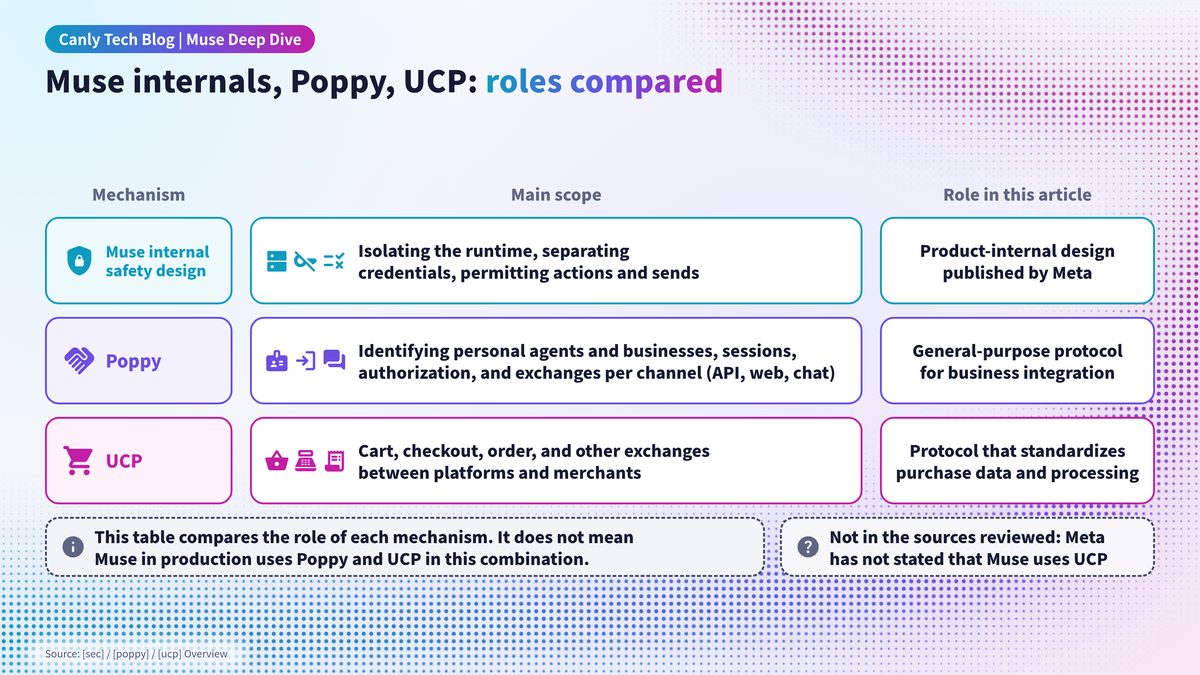
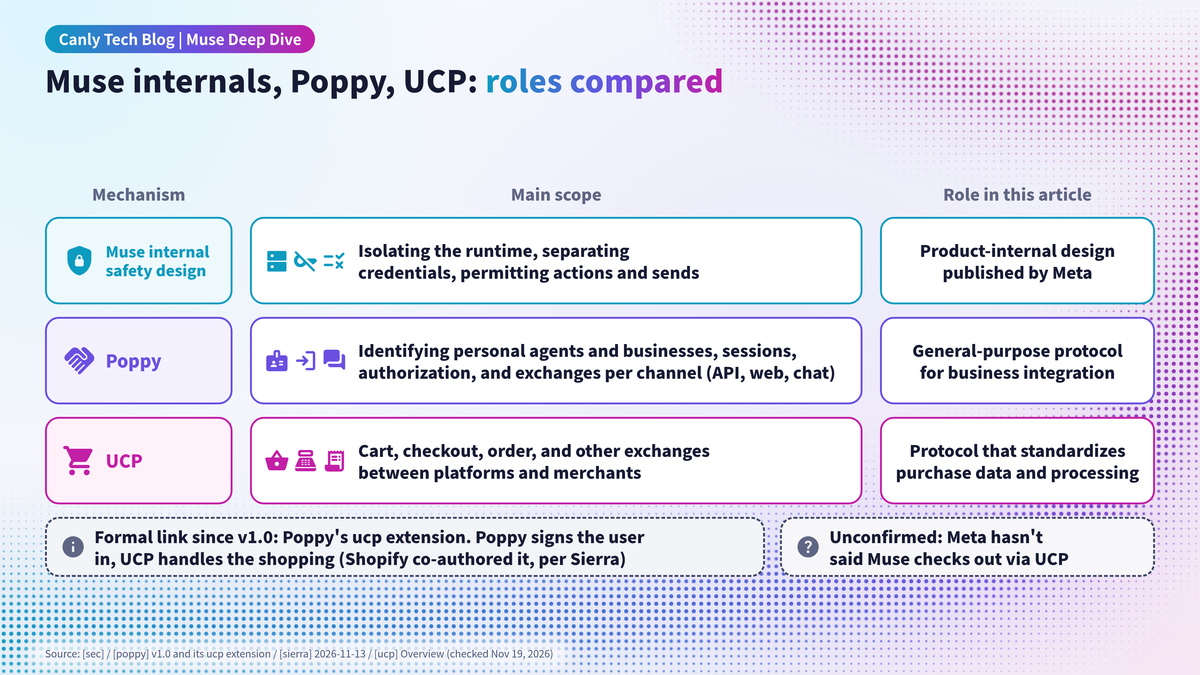
muse-en techblog: fig24 + 5.5/7 updated for Poppy 1.0 ucp extension (formal Poppy-UCP link; Muse use unconfirmed), rechecked 11/19 13:43 JST

Changed region(s): [[0.0617, 0.7778, 0.555, 0.84], [0.1233, 0.9333, 0.4625, 0.9956], [0.6783, 0.7778, 0.925, 0.84]]

diff --git a/2026-11-19/muse-en/techblog/figures/src/s24.html b/2026-11-19/muse-en/techblog/figures/src/s24.html
@@ -2,10 +2,10 @@
 <div class="pill">Canly Tech Blog | Muse Deep Dive</div>
 <p class="msg">Muse internals, Poppy, UCP: <em>roles compared</em></p>
 <div class="stage">
-<div class="d ck3" style="font-weight:900;justify-self:center;align-self:end">Mechanism</div><div class="d ck3" style="font-weight:900;justify-self:center;align-self:end">Main scope</div><div class="d ck3" style="font-weight:900;justify-self:center;align-self:end">Role in this article</div><div class="bx c fc row" style="justify-content:flex-start;padding:10px 24px"><span class="ic cc">shield_lock</span><div class="t sm cc" style="text-align:left;font-size:24px">Muse internal<br>safety design</div></div><div class="bx c row" style="justify-content:flex-start;gap:18px;padding:10px 20px"><div style="display:flex;gap:6px;flex:none"><span class="ic sm cc">dns</span><span class="ic sm cc">key_off</span><span class="ic sm cc">rule</span></div><div class="d ck" style="font-weight:800;text-align:left;flex:1">Isolating the runtime, separating credentials, permitting actions and sends</div></div><div class="bx c" style="padding:10px 20px"><div class="d ck" style="font-weight:800">Product-internal design published by Meta</div></div><div class="bx v fv row" style="justify-content:flex-start;padding:10px 24px"><span class="ic cv">handshake</span><div class="t sm cv" style="text-align:left">Poppy</div></div><div class="bx v row" style="justify-content:flex-start;gap:18px;padding:10px 20px"><div style="display:flex;gap:6px;flex:none"><span class="ic sm cv">badge</span><span class="ic sm cv">login</span><span class="ic sm cv">forum</span></div><div class="d ck" style="font-weight:800;text-align:left;flex:1">Identifying personal agents and businesses, sessions, authorization, and exchanges per channel (API, web, chat)</div></div><div class="bx v" style="padding:10px 20px"><div class="d ck" style="font-weight:800">General-purpose protocol for business integration</div></div><div class="bx m fm row" style="justify-content:flex-start;padding:10px 24px"><span class="ic cm">shopping_cart</span><div class="t sm cm" style="text-align:left">UCP</div></div><div class="bx m row" style="justify-content:flex-start;gap:18px;padding:10px 20px"><div style="display:flex;gap:6px;flex:none"><span class="ic sm cm">shopping_basket</span><span class="ic sm cm">point_of_sale</span><span class="ic sm cm">receipt_long</span></div><div class="d ck" style="font-weight:800;text-align:left;flex:1">Cart, checkout, order, and other exchanges between platforms and merchants</div></div><div class="bx m" style="padding:10px 20px"><div class="d ck" style="font-weight:800">Protocol that standardizes purchase data and processing</div></div><div style="grid-column:1/4;display:grid;grid-template-columns:1fr 600px;gap:24px"><div class="bx k fk dash row" style="padding:10px 22px"><span class="ic sm ck3">info</span><div class="d ck" style="font-weight:900;text-align:left">This table compares the role of each mechanism. It does not mean Muse in production uses Poppy and UCP in this combination.</div></div><div class="bx k dash row" style="padding:10px 22px;background:#F7F7FA"><span class="ic sm ck3">help</span><div class="d ck" style="font-weight:900;text-align:left">Not in the sources reviewed: Meta has not stated that Muse uses UCP</div></div></div>
+<div class="d ck3" style="font-weight:900;justify-self:center;align-self:end">Mechanism</div><div class="d ck3" style="font-weight:900;justify-self:center;align-self:end">Main scope</div><div class="d ck3" style="font-weight:900;justify-self:center;align-self:end">Role in this article</div><div class="bx c fc row" style="justify-content:flex-start;padding:10px 24px"><span class="ic cc">shield_lock</span><div class="t sm cc" style="text-align:left;font-size:24px">Muse internal<br>safety design</div></div><div class="bx c row" style="justify-content:flex-start;gap:18px;padding:10px 20px"><div style="display:flex;gap:6px;flex:none"><span class="ic sm cc">dns</span><span class="ic sm cc">key_off</span><span class="ic sm cc">rule</span></div><div class="d ck" style="font-weight:800;text-align:left;flex:1">Isolating the runtime, separating credentials, permitting actions and sends</div></div><div class="bx c" style="padding:10px 20px"><div class="d ck" style="font-weight:800">Product-internal design published by Meta</div></div><div class="bx v fv row" style="justify-content:flex-start;padding:10px 24px"><span class="ic cv">handshake</span><div class="t sm cv" style="text-align:left">Poppy</div></div><div class="bx v row" style="justify-content:flex-start;gap:18px;padding:10px 20px"><div style="display:flex;gap:6px;flex:none"><span class="ic sm cv">badge</span><span class="ic sm cv">login</span><span class="ic sm cv">forum</span></div><div class="d ck" style="font-weight:800;text-align:left;flex:1">Identifying personal agents and businesses, sessions, authorization, and exchanges per channel (API, web, chat)</div></div><div class="bx v" style="padding:10px 20px"><div class="d ck" style="font-weight:800">General-purpose protocol for business integration</div></div><div class="bx m fm row" style="justify-content:flex-start;padding:10px 24px"><span class="ic cm">shopping_cart</span><div class="t sm cm" style="text-align:left">UCP</div></div><div class="bx m row" style="justify-content:flex-start;gap:18px;padding:10px 20px"><div style="display:flex;gap:6px;flex:none"><span class="ic sm cm">shopping_basket</span><span class="ic sm cm">point_of_sale</span><span class="ic sm cm">receipt_long</span></div><div class="d ck" style="font-weight:800;text-align:left;flex:1">Cart, checkout, order, and other exchanges between platforms and merchants</div></div><div class="bx m" style="padding:10px 20px"><div class="d ck" style="font-weight:800">Protocol that standardizes purchase data and processing</div></div><div style="grid-column:1/4;display:grid;grid-template-columns:1fr 600px;gap:24px"><div class="bx k fk dash row" style="padding:10px 22px"><span class="ic sm ck3">info</span><div class="d ck" style="font-weight:900;text-align:left">Formal link since v1.0: Poppy's ucp extension. Poppy signs the user in, UCP handles the shopping (Shopify co-authored it, per Sierra)</div></div><div class="bx k dash row" style="padding:10px 22px;background:#F7F7FA"><span class="ic sm ck3">help</span><div class="d ck" style="font-weight:900;text-align:left">Unconfirmed: Meta hasn't said Muse checks out via UCP</div></div></div>
 </div>
 <div class="arwdefs" hidden></div>
-<p class="src">Source: [sec] / [poppy] / [ucp] Overview</p>
+<p class="src">Source: [sec] / [poppy] v1.0 and its ucp extension / [sierra] 2026-11-13 / [ucp] Overview (checked Nov 19, 2026)</p>
 <script>(function(){
 const sec=document.currentScript.closest('section');
 const COL={c:'#0E9BC0',v:'#6A4FE0',m:'#C21FA6',w:'#C77A00',k:'#5F6683',g:'#9AA1BD'};

diff --git a/2026-11-19/muse-en/techblog/factcheck_en.md b/2026-11-19/muse-en/techblog/factcheck_en.md
@@ -8,7 +8,7 @@
 
 1. **[Applied 11/19, see end] Poppy is "draft 0.4" (section 4.1, section 7, fig14 "Draft 0.4", fig26 "Poppy is at draft 0.4").** Poppy **v1.0 was released on 2026-11-13** (Sierra, https://sierra.ai/blog/releasing-poppy). https://personalagentprotocol.org/docs/spec now serves v1.0 ("It's 0.4 with the fixes implementers needed"). The 0.4 text is still at https://personalagentprotocol.org/docs/0.4/spec . Suggest: add an update note and point "draft 0.4" links to /docs/0.4/spec.
 2. **[Applied 11/19, see end] "The only primary source for Muse and Poppy working together is a demo at a Sierra event; not available to the general public" (section 5.5; fig01 "Availability in Muse unconfirmed (only demoed at a Sierra event)").** Outdated since 11/13: Sierra says "Poppy is now on for everyone who uses Muse, Meta's AI agent, which automatically looks for Poppy first on every site it visits", and Shopify enabled Poppy for every merchant. (Source is Sierra, not Meta.)
-3. **[Partly applied 11/19: update note in 5.5; fig24 unchanged] "No formal link between Poppy and UCP is defined" (section 5.5, section 7, fig24/fig26).** Partly outdated: v1.0 is "largely built with existing standards like MCP, OpenAPI, and UCP", adds extensions incl. "the commerce extension co-authored by Shopify", every Shopify store "automatically publishes a Poppy file", and Sierra says "UCP and Poppy complement each other" (same Sierra post). The v1.0 spec also lists UCP endpoints among entry points. Whether a Poppy session formally calls UCP checkout was not confirmed in this recheck.
+3. **[Applied 11/19 13:45 JST, see "Update applied (2)" at the end] "No formal link between Poppy and UCP is defined" (section 5.5, section 7, fig24/fig26).** Partly outdated: v1.0 is "largely built with existing standards like MCP, OpenAPI, and UCP", adds extensions incl. "the commerce extension co-authored by Shopify", every Shopify store "automatically publishes a Poppy file", and Sierra says "UCP and Poppy complement each other" (same Sierra post). The v1.0 spec also lists UCP endpoints among entry points. Whether a Poppy session formally calls UCP checkout was not confirmed in this recheck.
 4. **Model inside Muse (sections 1 and 2.1).** The article says the core is a Muse Spark 1.3 variant (true per the 10/23 evaluation report) and that "as of 2026-11-09, none of the sources I checked say the model inside Muse has switched to Wonder". But on **2026-11-06** (before publication) Meta announced "specialized versions of our existing models, trained using Muse Wonder", rolled out to Muse and Meta AI users (index 47% vs 38%; Active Memory 90% vs 76%) — https://research.meta.ai/blog/specialized-models-for-muse-and-metaai . Literally the "switched to Wonder" statement still holds (these are not Wonder itself), but readers may take "Muse runs Spark 1.3" as current. Suggest an update note.
 
 ## B. Still correct (rechecked)
@@ -60,5 +60,26 @@
 - 7 (Limits): "Poppy is at draft 0.4" -> "Poppy's spec reached v1.0 on November 13, but the business sites I checked on November 19 still published version 0.4 in their poppy.json files" (links: Sierra v1.0 post, /docs/0.4/spec).
 - Closing note: "Poppy is a draft" -> "Poppy reached v1.0 on November 13 (Poppy points updated November 19)".
 - Sources: draft 0.4 entry now points to /docs/0.4/spec; added "specification (version 1.0)" and Sierra "Releasing Personal Agent Protocol 1.0".
-- Not changed: fig24 and the 5.5 sentence "none of the sources I checked define a formal link between the specs". The new 5.5 note covers this. A redraw of fig24 was not requested.
+- fig24 and the 5.5 "formal link" sentence: fixed later the same day, see "Update applied (2)".
 
+## Update applied (2) (2026-11-19 13:45 JST, per HAGINO 13:42 JST: "fix fig24 and the 5.5 sentence before publishing")
+
+### Primary sources rechecked (2026-11-19 13:43 JST)
+- Sierra, "Releasing Personal Agent Protocol 1.0" (2026-11-13), https://sierra.ai/blog/releasing-poppy (200): "Introduced extensions, such as the commerce extension co-authored by Shopify"; "UCP and Poppy complement each other. UCP handles the shopping itself ... Poppy handles what happens before that"; "Shopify co-authored Poppy's commerce extension, which links the two protocols. It lets an agent shop as a guest or sign in with the customer's account ... It also connects to UCP Ask".
+- Poppy 1.0 extension list, https://personalagentprotocol.org/docs/extensions (200): browser-control, disclosures, links, mediated-sign-in, operations, ucp. The `ucp` row reads "The company speaks the Universal Commerce Protocol: this protocol finds it and signs the user in, and the shopping happens through UCP." There is no extension literally named "commerce". `/docs/extensions/commerce` returns 404.
+- Poppy `ucp` extension v1, https://personalagentprotocol.org/docs/1.0/extensions/ucp (200): "this protocol finds the Company, identifies the Personal Agent and a pseudonymous User, and signs the User in; UCP is the business protocol for how a Personal Agent shops once it is there." The Company lists `"extensions": {"ucp": [{"version": "1"}]}` in poppy.json, and the Personal Agent "sends them [the UCP services] the Session header (spec 5.2)". Sections include "6. Commerce and approval" and "8. Sessions and UCP resources".
+- UCP spec 2026-08-25 overview, https://ucp.dev/2026-08-25/specification/overview/ (200): no mention of Poppy / Personal Agent Protocol. The link is defined only on Poppy's side.
+- poppy.json fetched 13:27 JST: all 6 Shopify domains (allbirds.com, kith.com, colourpop.com, gymshark.com, jp.kith.com, mini-mal.tokyo) list `extensions.ucp = [{"version": "1"}]` while `protocol_version` is "0.4". app.mercury.com lists no extensions.
+- Meta: still no statement found that Muse checks out via UCP or uses the Poppy `ucp` extension (US/JP announcements, safety blog; not re-searched beyond these).
+
+### Changes
+- fig24 (`s24`): info box "This table compares the role of each mechanism. It does not mean Muse in production uses Poppy and UCP in this combination." -> "Formal link since v1.0: Poppy's ucp extension. Poppy signs the user in, UCP handles the shopping (Shopify co-authored it, per Sierra)"; help box "Not in the sources reviewed: Meta has not stated that Muse uses UCP" -> "Unconfirmed: Meta hasn't said Muse checks out via UCP"; source line -> "[sec] / [poppy] v1.0 and its ucp extension / [sierra] 2026-11-13 / [ucp] Overview (checked Nov 19, 2026)".
+- 5.5: the "only ... a demo at a Sierra event ... None of them describe a production example that actually combines Poppy and UCP" paragraph and the separate "Update (November 19, 2026)" box were merged into one paragraph ("When I first published ... only ... a demo ... That changed with the Poppy v1.0 release on November 13 ... (Updated November 19, 2026.)").
+- 5.5 Confirmed facts: new bullet on Poppy 1.0's `ucp` extension (what it does, Session header, Shopify co-authorship per Sierra, the 6 Shopify stores already listing it, and UCP's spec not mentioning Poppy).
+- 5.5 closing: "That said, none of the sources I checked define a formal link between the specs (for example, calling UCP checkout within a Poppy session)." -> "Since v1.0, the formal link between the specs exists: Poppy's `ucp` extension defines how UCP requests, checkout included, run inside a Poppy session. What I still can't confirm is whether Muse uses that path in production. Meta hasn't said that Muse checks out through UCP."
+- Section 7 "How the three relate": "... or any formal link between Poppy and UCP." -> "... Since v1.0, Poppy's ucp extension formally links Poppy and UCP, but whether Muse uses it is unconfirmed."
+- Sources: added the Poppy `ucp` extension page.
+
+### Unclear (kept careful in the wording)
+- Sierra calls it "the commerce extension co-authored by Shopify", but the spec site has no extension by that name. The one that links Poppy and UCP is `ucp`, and its page doesn't list authors. Treating `ucp` as the commerce extension is our reading. The text says "Sierra says Shopify co-authored this commerce extension".
+- Shopify stores list the `ucp` extension in a 0.4 poppy.json. Whether a 1.0 agent uses it with a 0.4 file isn't covered here. Under spec 3.4, 0.4 and 1.0 are not "compatible" versions.

diff --git a/2026-11-19/muse-en/techblog/article_en.md b/2026-11-19/muse-en/techblog/article_en.md
@@ -630,7 +630,7 @@ Picture a restaurant whose regular hours are listed correctly, but whose unsched
 - **Access by Meta**: The current architecture doesn't prevent Meta from accessing data when needed. Confidential VM was still [only planned as of September](https://research.meta.ai/blog/security-and-safety-for-ai-agents-our-approach-with-muse).
 - **Protocol maturity**: Poppy's spec reached [v1.0 on November 13](https://sierra.ai/blog/releasing-poppy), but the business sites I checked on November 19 still published [version 0.4](https://personalagentprotocol.org/docs/0.4/spec) in their `poppy.json` files. Web Bot Auth is an Internet-Draft, and a signature only shows that the key holder signed. It doesn't show who the operator is, whether it's benign, or [whether it's authorized](https://www.ietf.org/archive/id/draft-ietf-webbotauth-httpsig-protocol-01.txt). UCP keeps shipping [date-versioned updates](https://ucp.dev/2026-08-25/specification/overview/).
 - **What's missing from the sources**: None of the sources I checked describe the specific training procedure, the internals of VM startup and suspension, or the contents of Sentinel's policies and classifier details.
-- **How the three relate**: None of the sources I checked describe the path Muse's Shopify checkout takes, or any formal link between Poppy and UCP.
+- **How the three relate**: None of the sources I checked describe the path Muse's Shopify checkout takes. Since v1.0, Poppy's [`ucp` extension](https://personalagentprotocol.org/docs/1.0/extensions/ucp) formally links Poppy and UCP, but whether Muse uses it is unconfirmed.
 
 Partly because of time constraints, the show leaned on analogies. I hope this post helps you separate fact from speculation. And please watch the full episode on [YouTube](https://www.youtube.com/watch?v=NvNLJjozcJo).
 
@@ -651,6 +651,7 @@ Partly because of time constraints, the show leaned on analogies. I hope this po
 - "Personal Agent Protocol specification (draft 0.4)," Personal Agent Protocol. https://personalagentprotocol.org/docs/0.4/spec
 - "Personal Agent Protocol specification (version 1.0)," Personal Agent Protocol. https://personalagentprotocol.org/docs/spec
 - "Releasing Personal Agent Protocol 1.0," Bret Taylor and Clay Bavor, Sierra, November 13, 2026. https://sierra.ai/blog/releasing-poppy
+- "UCP" extension (version 1), Personal Agent Protocol 1.0. https://personalagentprotocol.org/docs/1.0/extensions/ucp
 - "Introducing Personal Agent Protocol," Bret Taylor and Clay Bavor (Sierra), October 6, 2026. https://sierra.ai/blog/introducing-personal-agent-protocol
 - Personal Agent Protocol official website. https://personalagentprotocol.org/
 - "Personal Agent Protocol specification 0.3" (frozen November 4, 2026), Personal Agent Protocol. https://personalagentprotocol.org/docs/0.3/spec
